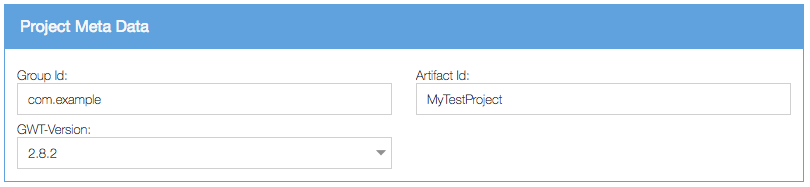
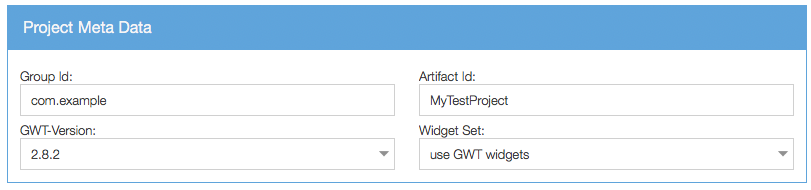
update documentation

diff --git a/etc/wiki/Mvp4g2 Project Generator.md b/etc/wiki/Mvp4g2 Project Generator.md
@@ -1,0 +1,107 @@
+# MVP4G2 Project Generator
+
+## Motivation
+
+Setting up a Mvp4g2 project can be hard. There are a lot of things to do before it is possible to run the project and
+check wheather it is working or not. To improve the set up process, we created a
+[Mvp4g2 project generator](http://www.mvp4g.org/gwt-boot-starter-mvp4g2/GwtBootStarterMvp4g2.html). Once you have
+configurated and generated the project, you will get a zip file containing the ready to import Mvp4g2 project.
+
+Keep in mind, Mvp4g2 helps you to structure your application. Navigation, history and confirmation will work. It is not
+a widget library. So, the views are nearly empty. It is up to you to implement the views.
+
+**Important note:** Mvp4g2 requires Java 8!
+
+**Note:**
+
+The implementation of the generator uses Mvp4g2, GXT and is based on GWT 2.8.2! The generated project requires in this
+version GWT 2.8.2 and Java 8. The generated Mvp4g2 source code will work with J2CL / GWT 3 once all dependies to GWT
+2.8.2 are replaced. You have to choose a widget set, that will work with J2CL / GWT 3 to be compatible with J2CL / GWT 3!
+
+**The generator nor Mvp4g2 will make any source code compatible with J2CL / GWT 3.**
+
+## Configuration
+
+### Project Meta Data
+
+In this area the Group Id, the Artifact Id and GWT version of the project is defined.
+
+![Project Meta Data](https://github.com/mvp4g/mvp4g2/blob/master/etc/wiki/images/ProjectMetaData.png)
+
+#### Group Id
+
+The group id is used as group id inside the POM. Also it will be used as the name of the package. The group id can not
+be empty. You can enter letters [a - z], numbers [0 - 9] and dots [.].
+
+#### Artifact Id
+
+The artifact id is used as artifact id inside the POM. It is also used as the name of the GWT module. The group id can
+not be empty. You can enter letters [a - z, A - Z] and numbers [0 - 9].
+
+#### GWT Version
+
+The GWT version of the generated project. Currently the generator supports only GWT 2.8.2.
+
+#### Widget Set
+
+The widget library that will be used for the code generation. At the moment the Mvp4g2 Example generator supports:
+
+- Elemento
+
+- native GWT widgets
+
+- GXT GPL 4.0.0
+
+**Note: The native GWT and the GXT GPL 4.0.0 widget sets will not work with J2CL / GWT 3!**
+
+### Application Meta Data
+
+In this area the features of Mvp4g2 for generated the project are defined.
+
+![Project Meta Data](https://github.com/mvp4g/mvp4g2/blob/master/etc/wiki/images/ApplicationMetaData.png)
+
+#### Application Loader
+
+If checked, a [Application Loader](https://github.com/mvp4g/mvp4g2/wiki/02.-Application-Loader) will be added to the project.
+
+#### Debug Support
+
+If checked, the [Debug](https://github.com/mvp4g/mvp4g2/wiki/03.-Defining-an-Event-Bus#logs) annotation will be
+generated inside the event bus.
+
+#### History Support
+
+If checked, everything needed for [history handling](https://github.com/mvp4g/mvp4g2/wiki/05.-Browser-History-Support)
+will be generated.
+
+#### History on Start
+
+If checked, the application will handle a [history token on start](https://github.com/mvp4g/mvp4g2/wiki/05.-Browser-History-Support#history-on-start) (book mark).
+
+### Screen Meta Data
+
+In this area the screens are defined. A screen in mvp4g2 is a combination of a presenter and a view. There are three
+predefined screens called search, list and detail.
+
+![Project Meta Data](https://github.com/mvp4g/mvp4g2/blob/master/etc/wiki/images/ScreenMetaData.png)
+
+There are three buttons:
+
+- the first buttons adds another screen
+
+- the second button edits the selected screen
+
+- the third button removes the selected screen.
+
+In case you add or edit a screen, a window will open.
+
+![Add or edit screen data] (https://github.com/mvp4g/mvp4g2/blob/master/etc/wiki/images/PresenterDataWindow.png)
+
+Using this window, you can:
+
+1. name the screen: this name will be used as package name, the goto event, the Presenter- and view-name
+2. history name: if entered, this name will be used as token instead the event name
+3. view creation method:
+  - view is created by framework: the instance of the view will be created by the framwork (using 'new')
+  - view is created by presenter: the instance of the view has to be created by the developer
+6. enable navigation confirmation
